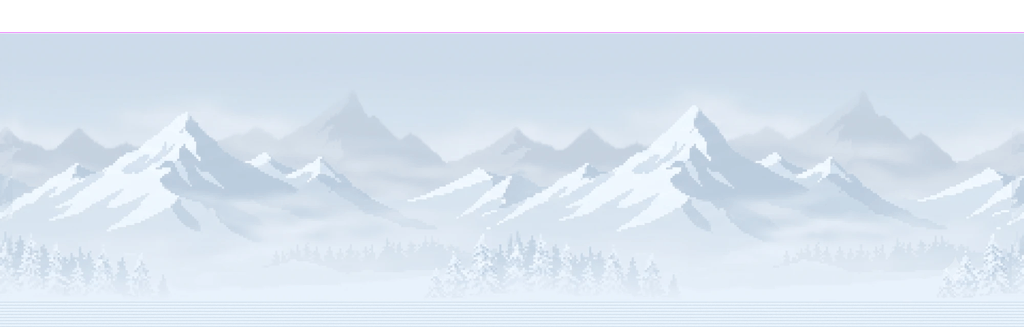
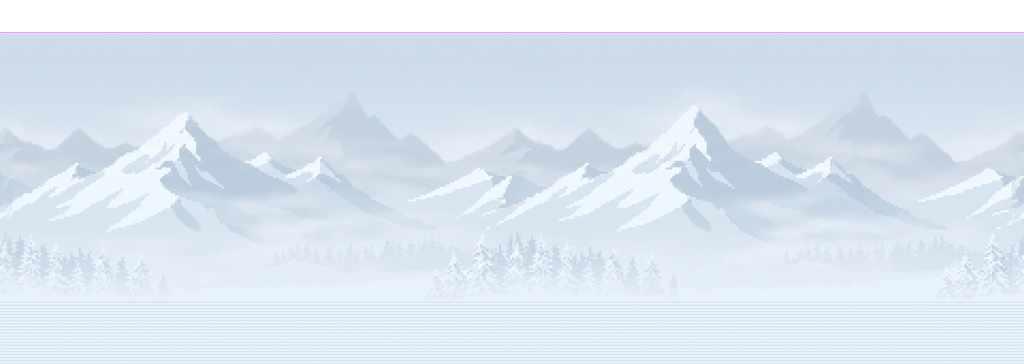
v2.69.4 설산 원경 — 눈밭 띠 120px, 디졸브 계단 48
Claude-Session: https://claude.ai/code/session_01JNaHhiKtytcgy14ocCuYm4

diff --git a/src/00-data.js b/src/00-data.js
@@ -225,7 +225,7 @@ const BACKDROP = {
   // 아래 디졸브 띠 — 그림 높이의 비율(fadeR)로 잡는다. v2.63.6: 64px 고정은 폰(VH≈280,
   // 그림 84px)에서 그림의 3/4를 녹여 집·나무 아랫도리가 다 잘려 보였다("아래쪽이 다 짤려").
   // 이제 아래 14%만 녹인다 — 집 주춧돌만 땅에 스민다.
-  fadeR: 0.14, fadeMin: 8, fadeSteps: 16, fadePow: 1.0,   // 계단 16 — 폐촌 덧댄 땅 띠(48px)에서 8단은 6px 띠가 보였다
+  fadeR: 0.14, fadeMin: 8, fadeSteps: 48, fadePow: 1.0,   // 계단 48(≈1px) — 설산 넓은 눈밭 띠(120px)에서 16단은 줄무늬가 보였다
   cull: 0.5,                                    // 지평선 위(fade의 이 비율 지점부터) 소품 안 세움
   keys: { bamboo:'bg_bamboo', village:'bg_village', cave:'bg_cave', snow:'bg_snow', heaven:'bg_heaven' },
   sky:  { bamboo:'#becfbc', village:'#a78e76', cave:'#3f444b', snow:'#cddae8', heaven:'#d8dbc6' },  // 그림 위 남는 하늘(시트 윗줄 평균)

diff --git a/VERSION.md b/VERSION.md
@@ -1,3 +1,9 @@
+# v2.69.4 — 설산 원경 나무 줄 (2026-09-15)
+
+- 설산 시트는 소나무 줄이 평평한 띠에 가려 밑동이 직선으로 끝난다(그림 자체). 눈밭 띠를
+  120px로 넓게 덧대 나무 줄이 평평한 눈밭 위에 서고, 그 아래에서 바닥 텍스처로 녹게 했다.
+  디졸브 계단 16→48(≈1px)로 넓은 띠의 줄무늬 제거.
+
 # v2.69.3 — 설산 나무 잘림의 진짜 원인: 소품이 원경에 덮임 (2026-09-15)
 
 - 원경 그림이 아니라 **소품 소나무**(sno_pine 102px)였다. 소품은 원경 뒤 층이라(v2.62 "원경이
